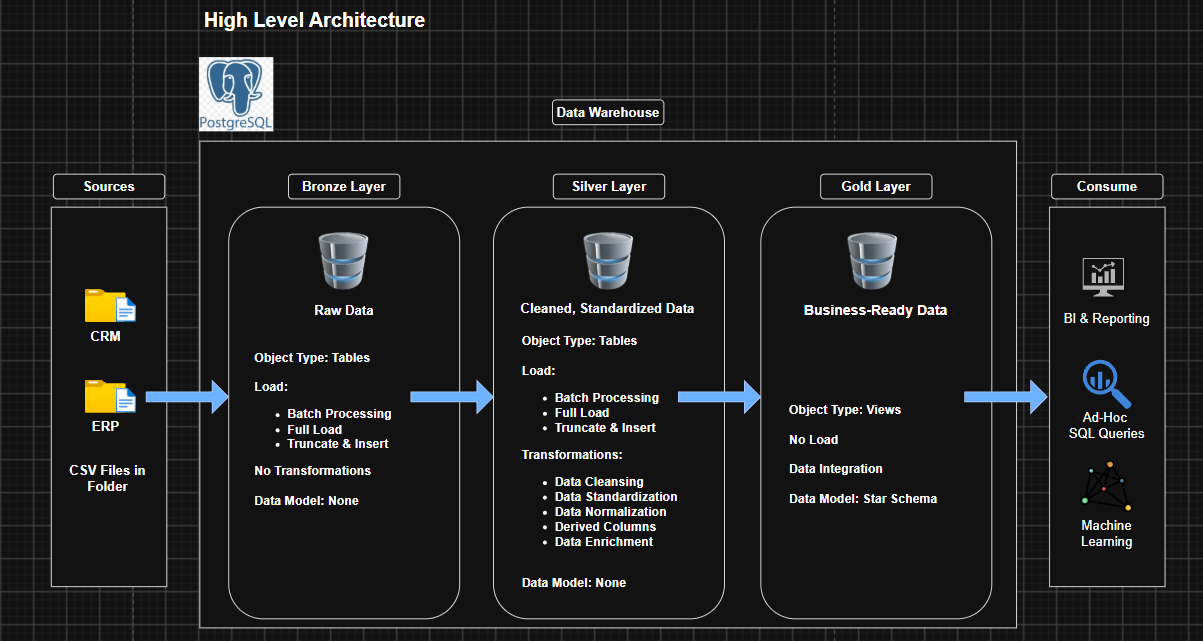
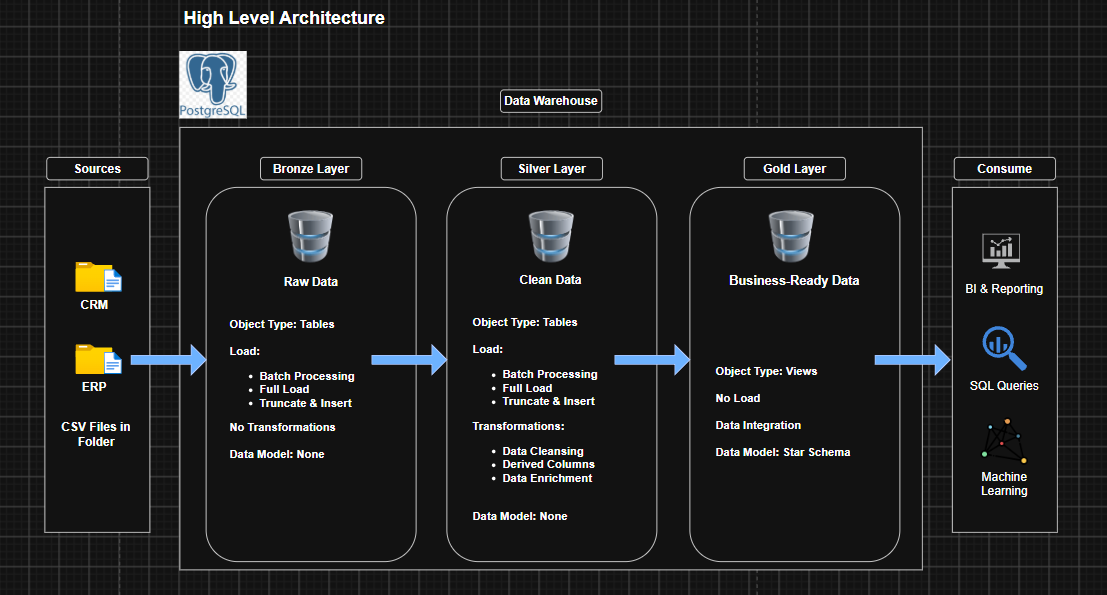
updated readme and data architecture image

Changed region(s): [[0.0, 0.0, 1.0, 1.0]]

diff --git a/README.md b/README.md
@@ -31,12 +31,12 @@ This project involves:
 
 ## Building Layers  
 
-[Database Initialization](04_scripts/init_database.sql)
+**Initialize the database first:** [Database Initialization](04_scripts/init_database.sql)
 
-1. **Bronze Layer**: Stores raw data as-is from the source systems. Data is ingested from CSV Files into **Postgres** Database.  
+1. **Bronze Layer**: Stores raw data as-is from the source systems. Data is ingested from CSV Files into ***Postgres*** Database.  
   - [DDL Bronze Layer](04_scripts/1_bronze/ddl_bronze.sql)
-  - [Procedure Load Bronze](04_scripts/1_bronze/procedure_load_bronze.sql)
-2. **Silver Layer**: Includes data cleaning, standardization, and normalization processes to prepare data for analysis.
+  - [Procedure Load Bronze](04_scripts/1_bronze/procedure_load_bronze.sql) (Update the file paths in the procedure to match the location where you stored the CSV files on your own computer.)
+2. **Silver Layer**: Includes data cleaning processes to prepare data for analysis.
   - [DDL Silver Layer](04_scripts/2_silver/ddl_silver.sql)
   - [Procedure Load Silver](04_scripts/2_silver/procedure_load_silver.sql)
 3. **Gold Layer**: Business-ready data, modeled into a star schema, required for reporting and analytics.
